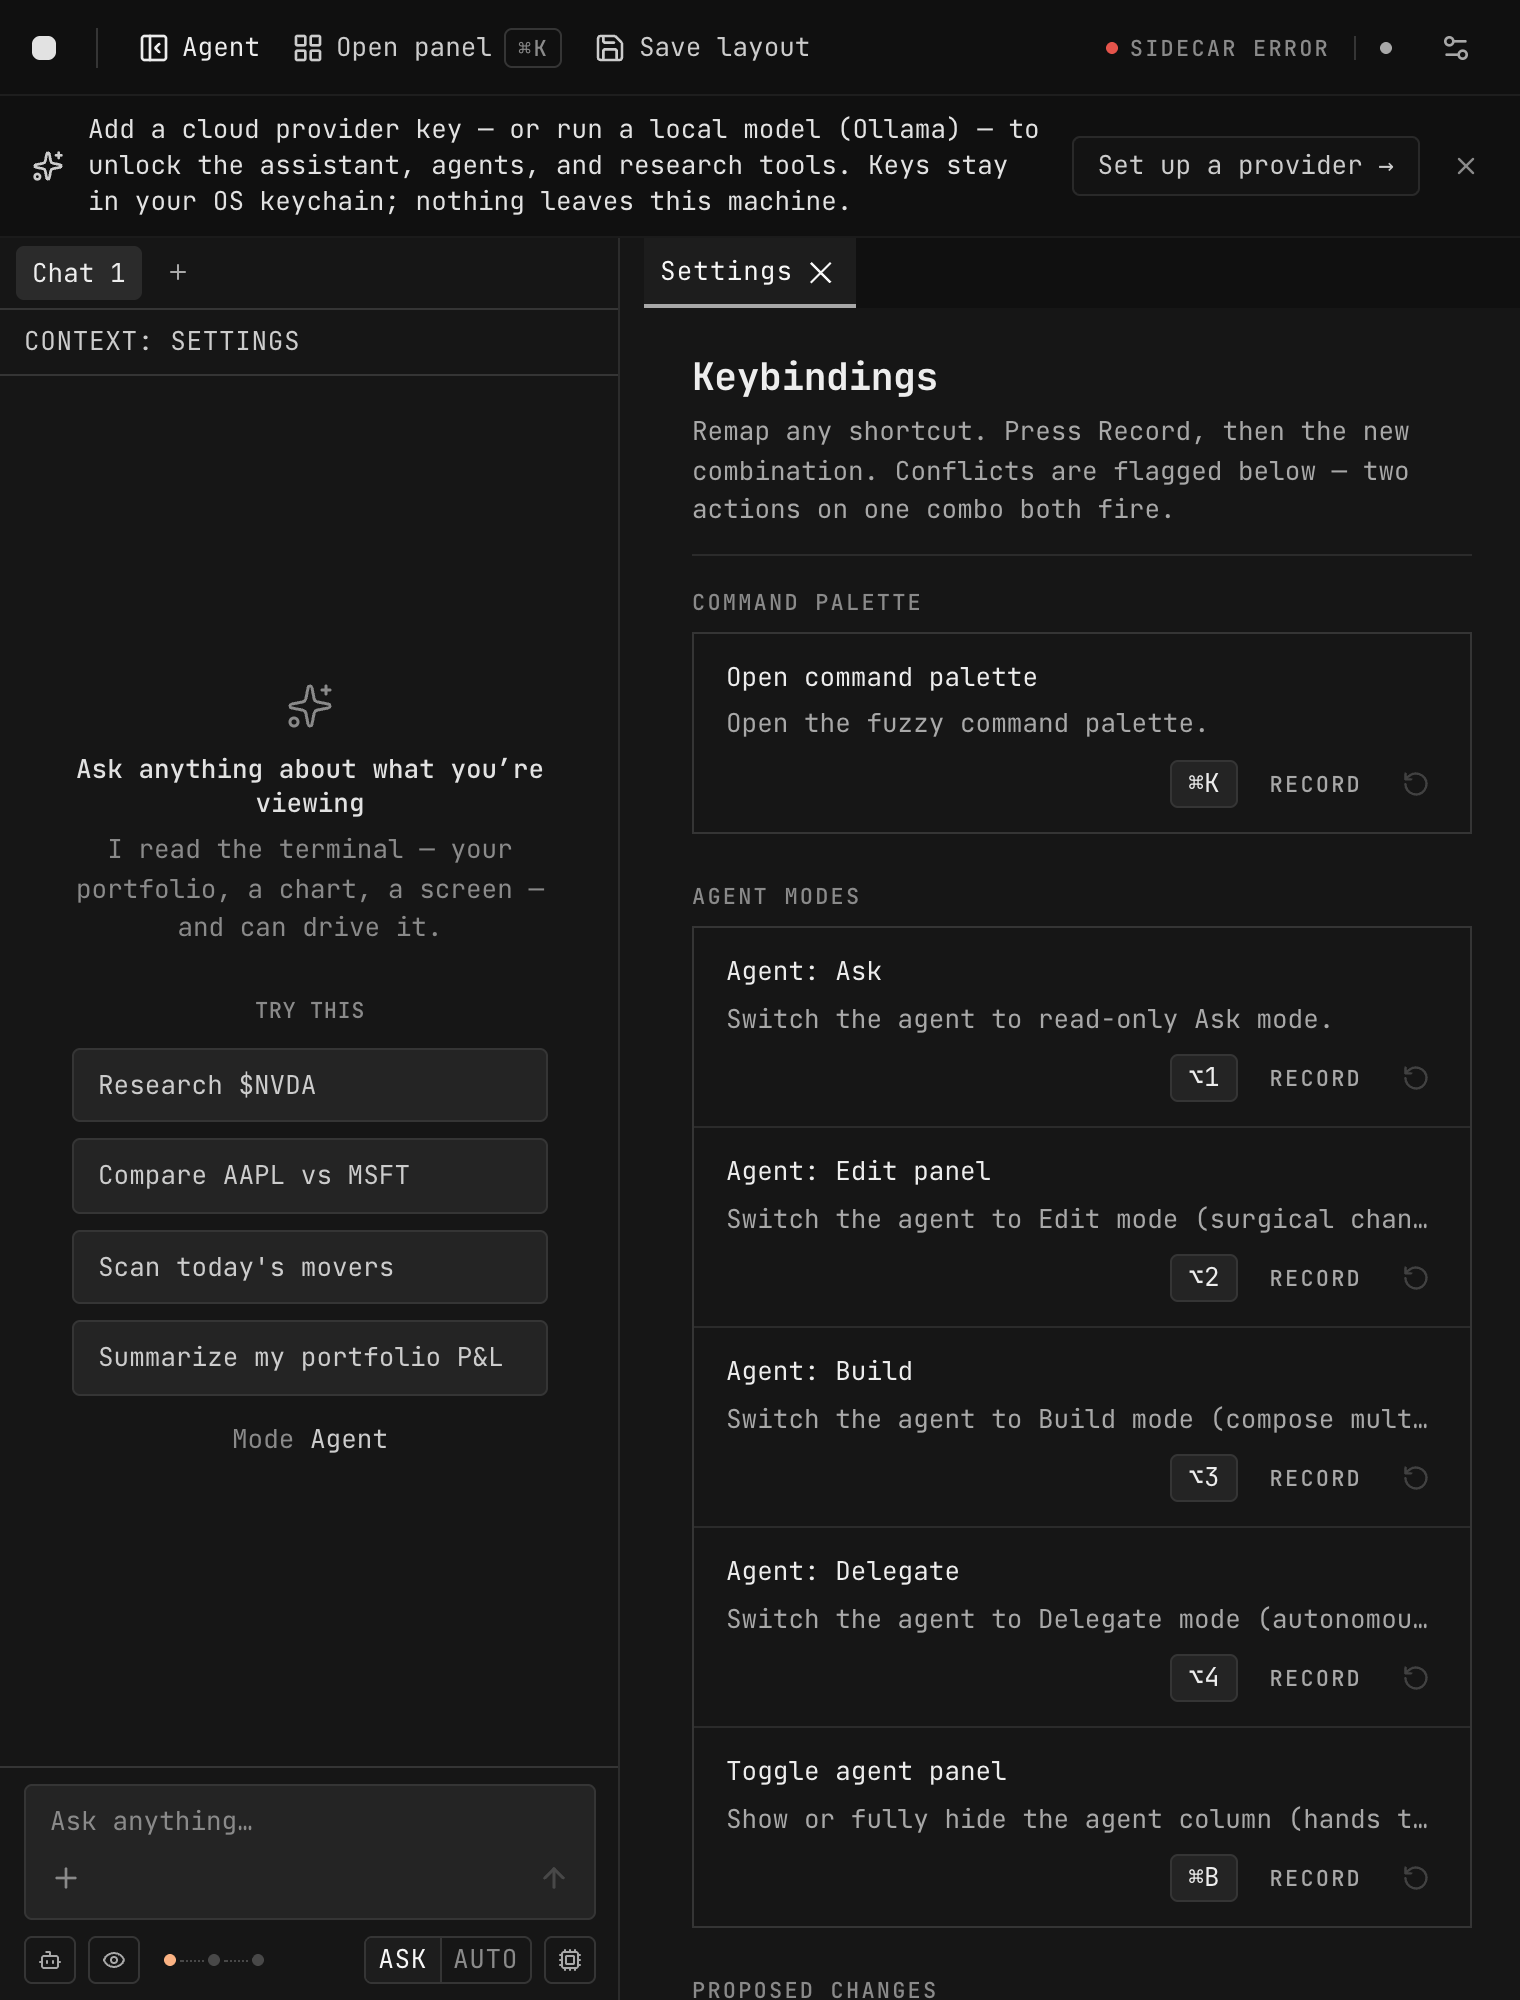
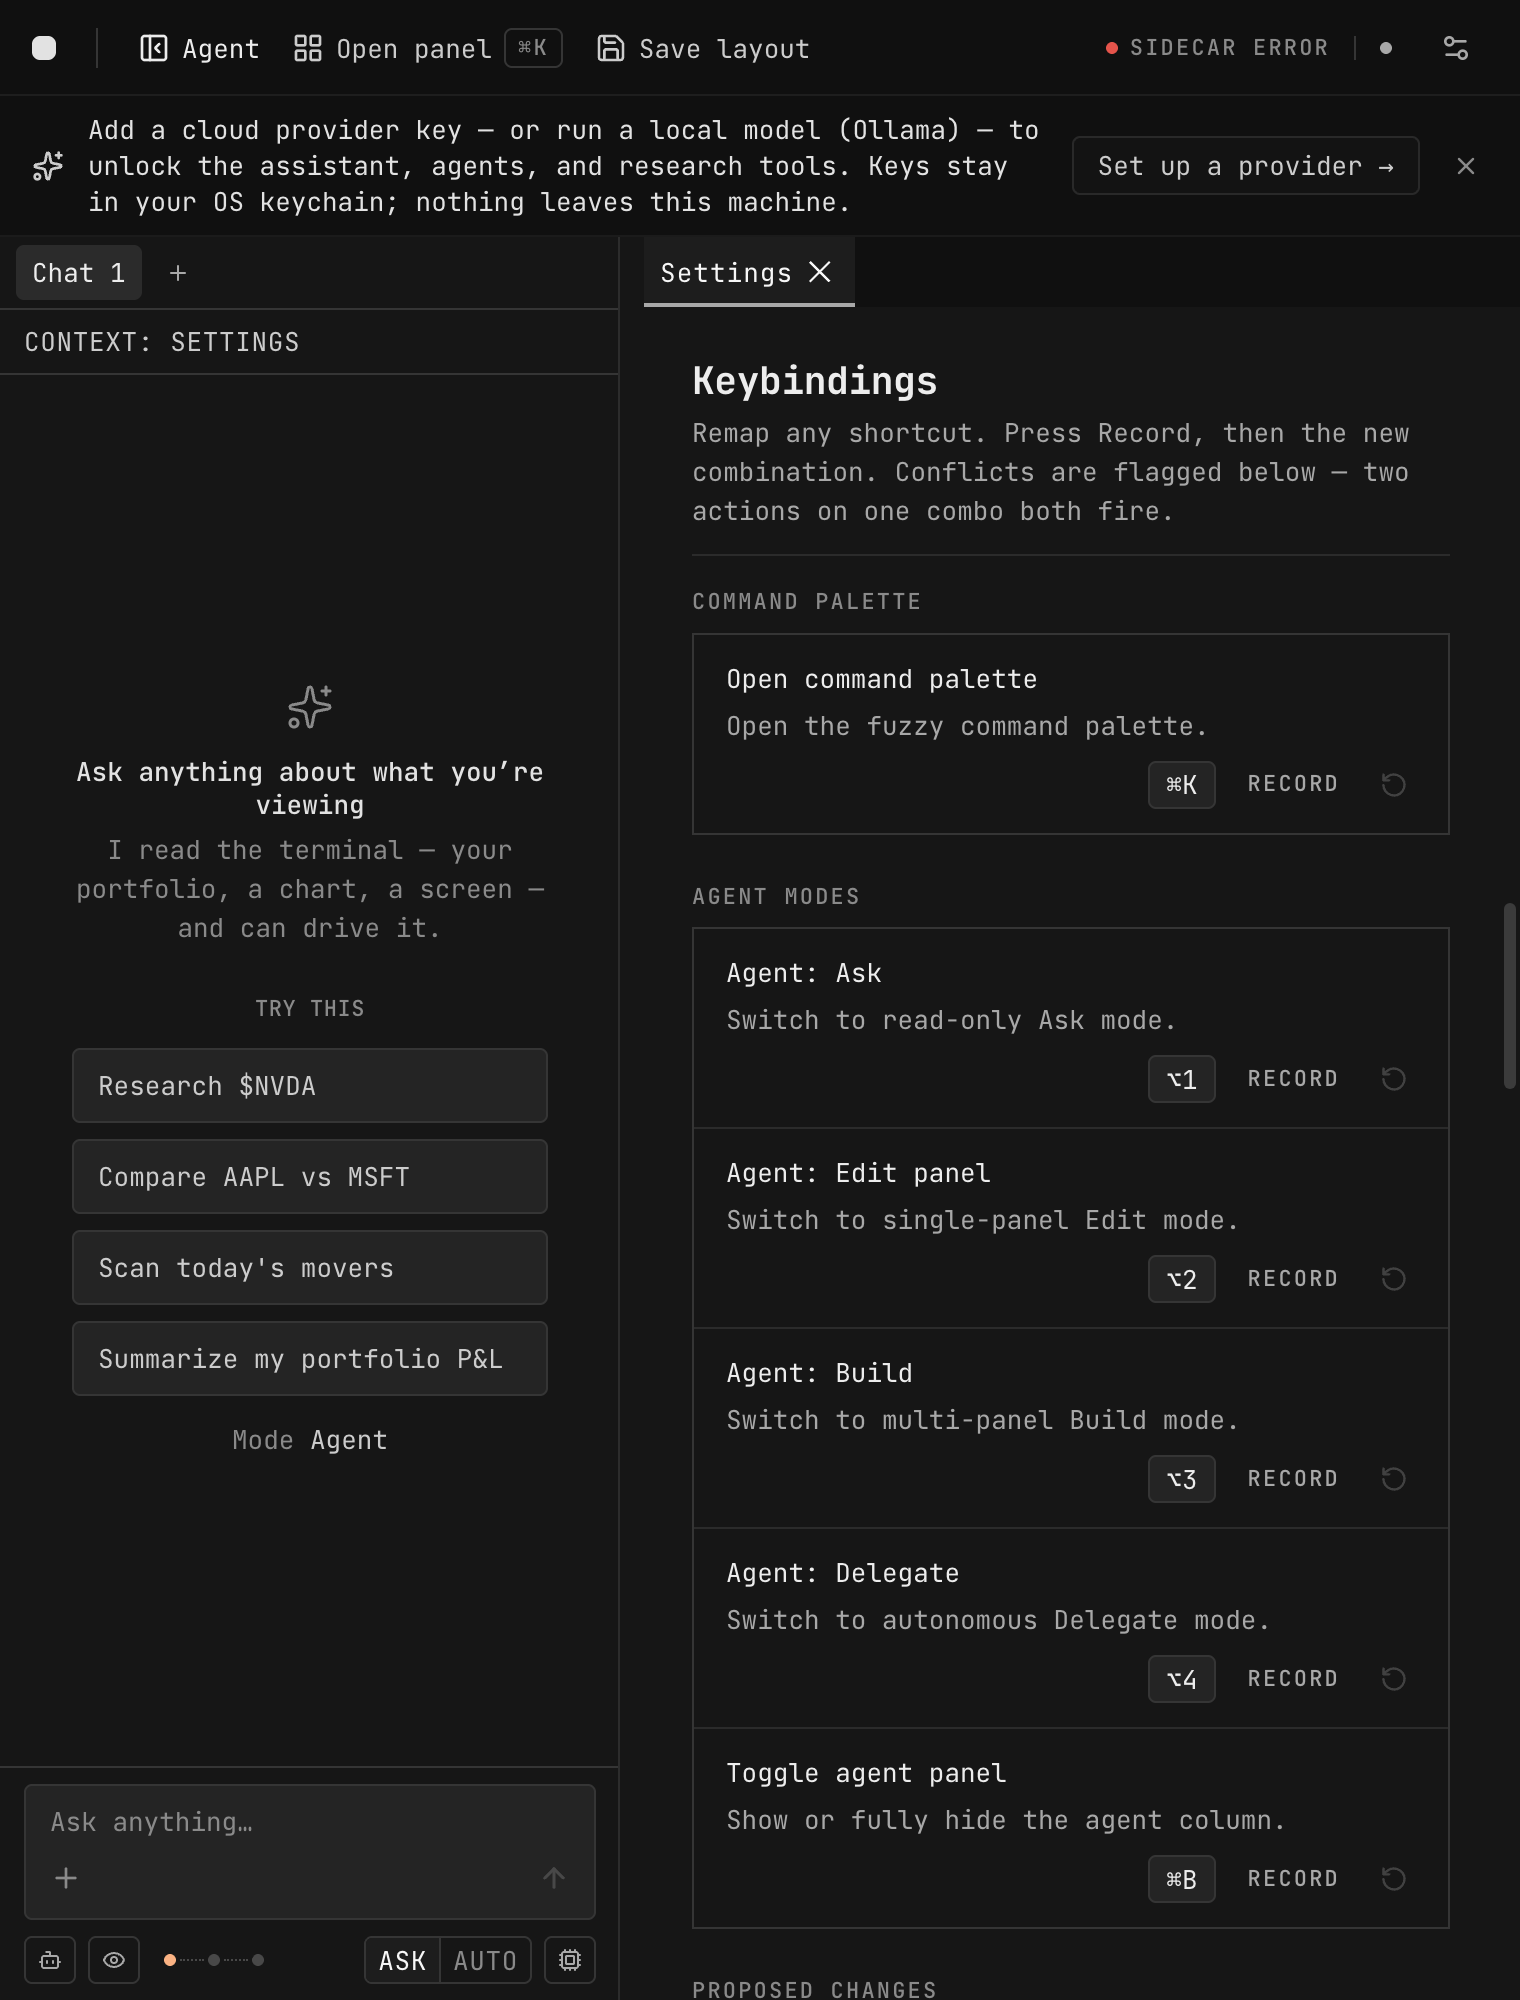
fix(settings): uniform keybindings row ladder — aligned control column at 1280
Review blocker: at the default 1280 width the keybindings card mixed row
shapes — long descriptions (max-content flex base, no flex-1) wrapped the
kbd/Record/reset cluster onto a second line while short rows kept it inline,
and the description's truncate was dead code defeated by its own layout.

Fix, uniform per card so shapes never mix at ANY width:
- Card is a @container; the label column is flex-1 (basis-0 — copy never
  decides the wrap point; cluster inline on one aligned column >=576px card
  width) and @max-[576px]:basis-full (ALL rows stack the cluster under the
  label as a unit below it). truncate is the genuine last resort.
- Designed short descriptions for the four over-budget actions (defaults
  now <=43 chars — zero truncation in the stacked min-width state too; the
  old copy truncated mid-word in the previous min capture).
- Pins: label column flex-1/min-w-0 across every row (SettingsPanel.test),
  copy budget desc+combo <=56 inline / desc <=43 stacked (keybindings.test).
- Captures regenerated with a per-row rect/scrollWidth audit: 1280 15/15
  inline zero-truncation, 760 (min, agent column) 15/15 uniformly stacked
  zero-truncation, new 460-narrow 15/15 stacked zero-truncation.
- Report: fix-round section; corrected the non-reproducing '820 (short)'
  nav-ladder claim (within scrollbar-width of the 440px gate; degrades
  safely either way).

diff --git a/src/components/SettingsPanel.tsx b/src/components/SettingsPanel.tsx
@@ -1438,7 +1438,9 @@ function KeybindingsSection() {
           return (
             <div key={category}>
               <GroupLabel label={label} />
-              <Card>
+              {/* @container: the card is the query container so the row ladder
+                  below keys off the PANEL's width, not the window's. */}
+              <Card className="@container">
                 {group.map(({ actionId, def, combo }) => {
                   const isRecording = recording === actionId;
                   const isOverridden = actionId in overrides;
@@ -1447,13 +1449,20 @@ function KeybindingsSection() {
                     <div
                       key={actionId}
                       className={cn(
-                        // Collapse order (R8 §3.4): the kbd/record cluster
-                        // wraps below the label as a unit at narrow widths.
+                        // Collapse ladder (R8 §3.4), uniform per CARD so row
+                        // shapes never mix: above 576px card width the label
+                        // column is flex-1 basis-0 — its copy never decides
+                        // the wrap point, every row keeps its kbd/record
+                        // cluster inline on one aligned column (D2). Below
+                        // 576px ALL rows stack: the label takes basis-full and
+                        // the cluster wraps under it as a unit (ml-auto keeps
+                        // it right-aligned). The description's truncate is the
+                        // genuine last resort at sub-stack starvation.
                         "flex min-h-8 flex-wrap items-center justify-between gap-x-4 gap-y-2 px-4 py-3",
                         conflicted && "border-warning/50 border-l-2",
                       )}
                     >
-                      <div className="flex min-w-0 flex-col">
+                      <div className="flex min-w-0 flex-1 flex-col @max-[576px]:basis-full">
                         <span className="text-charcoal-100 text-body">{def.label}</span>
                         <span className="text-charcoal-400 text-caption mt-1 truncate">
                           {def.description}

diff --git a/src/store/keybindings.test.ts b/src/store/keybindings.test.ts
@@ -1,6 +1,7 @@
 import { afterEach, beforeEach, describe, expect, it, vi } from "vitest";
 
 import {
+  DEFAULT_KEYBINDINGS,
   formatBinding,
   matchesEvent,
   normalizeBinding,
@@ -122,6 +123,23 @@ describe("formatBinding", () => {
   it("is SSR-safe (no navigator → treats as non-mac)", () => {
     vi.stubGlobal("navigator", undefined);
     expect(formatBinding("mod+k")).toBe("Ctrl+K");
+  });
+});
+
+describe("DEFAULT_KEYBINDINGS copy budget", () => {
+  it("keeps every default description short enough for the settings rows at the gated widths", () => {
+    // Settings keybinding row geometry (R9 gate 9: zero truncated text).
+    // Inline state (card ≥ 576px; 1280 default = ~590px inner row): ~128px of
+    // fixed cluster chrome (Record + reset + gaps + kbd padding) leaves ~58
+    // mono-caption chars shared by the description and the formatted combo.
+    // Stacked state (catalogued min capture, ~345px inner row): the
+    // description gets the full row ≈ 44 mono-caption chars on its own.
+    vi.stubGlobal("navigator", { platform: "Win32", userAgent: "Windows NT" });
+    for (const [actionId, def] of Object.entries(DEFAULT_KEYBINDINGS)) {
+      const combined = def.description.length + formatBinding(def.keys).length;
+      expect(combined, `${actionId}: "${def.description}"`).toBeLessThanOrEqual(56);
+      expect(def.description.length, `${actionId}: "${def.description}"`).toBeLessThanOrEqual(43);
+    }
   });
 });
 

diff --git a/src/store/keybindings.ts b/src/store/keybindings.ts
@@ -65,31 +65,31 @@ const SHELL_DEFAULTS: Record<string, KeybindingDef> = {
   "agent.mode.ask": {
     keys: "alt+1",
     label: "Agent: Ask",
-    description: "Switch the agent to read-only Ask mode.",
+    description: "Switch to read-only Ask mode.",
     category: "agent",
   },
   "agent.mode.edit": {
     keys: "alt+2",
     label: "Agent: Edit panel",
-    description: "Switch the agent to Edit mode (surgical change to the focused panel).",
+    description: "Switch to single-panel Edit mode.",
     category: "agent",
   },
   "agent.mode.build": {
     keys: "alt+3",
     label: "Agent: Build",
-    description: "Switch the agent to Build mode (compose multiple panels).",
+    description: "Switch to multi-panel Build mode.",
     category: "agent",
   },
   "agent.mode.delegate": {
     keys: "alt+4",
     label: "Agent: Delegate",
-    description: "Switch the agent to Delegate mode (autonomous background task).",
+    description: "Switch to autonomous Delegate mode.",
     category: "agent",
   },
   "agent.toggle": {
     keys: "mod+b",
     label: "Toggle agent panel",
-    description: "Show or fully hide the agent column (hands the full cockpit back).",
+    description: "Show or fully hide the agent column.",
     category: "agent",
   },
   "changes.acceptAll": {

diff --git a/src/components/SettingsPanel.test.tsx b/src/components/SettingsPanel.test.tsx
@@ -134,6 +134,21 @@ describe("SettingsPanel", () => {
     expect(binding.textContent).toMatch(/K$/);
   });
 
+  it("keeps every keybinding row's label column flex-1 so the cluster never wraps on copy length (D2)", () => {
+    render(<SettingsPanel />);
+    // Row shape: kbd → cluster div → row div; the label column is the row's
+    // first child. flex-1 (basis-0) means description width never decides the
+    // wrap point — every row keeps its kbd/Record/reset cluster inline on one
+    // aligned column at default width, with truncate as the live last resort.
+    const kbds = screen.getAllByLabelText(/ binding$/);
+    expect(kbds.length).toBeGreaterThan(0);
+    for (const kbd of kbds) {
+      const labelCol = kbd.parentElement?.parentElement?.firstElementChild;
+      expect(labelCol?.className).toContain("flex-1");
+      expect(labelCol?.className).toContain("min-w-0");
+    }
+  });
+
   it("recording a key remaps the binding via setBinding", () => {
     render(<SettingsPanel />);
 

diff --git a/docs/redesign/R9_TRACK_SETTINGS_REPORT.md b/docs/redesign/R9_TRACK_SETTINGS_REPORT.md
@@ -41,9 +41,13 @@ selection):
 - Jump-nav collapse ladder: full → designed short labels (Providers / Research /
   Region / Keys / Advanced) → one "Sections ⋯" overflow menu. Gates re-pinned to
   MEASURED row widths (578px full / 432px short in uppercase JetBrains Mono
-  micro); verified live at 1280/980 (full), 900/820 (short), 760 (overflow) —
+  micro); verified live at 1280/980 (full), 900 (short), 760 (overflow) —
   zero clip/wrap at every step (the first estimate, 440px, clipped at 530 — the
-  capture round caught it).
+  capture round caught it). An 820px window sits within scrollbar-width of the
+  440px short gate and renders short OR overflow depending on the rig — both
+  steps fit, neither clips, so the ladder degrades safely either way (fix-round
+  correction: the original "820 (short)" claim did not reproduce on the
+  reviewer's rig).
 - Provider rows on one designed slot grid (name+status flex, w-16 default slot,
   w-28 key slot, w-8 remove slot); SET DEFAULT is now the short form "Default"
   (button) / check+"Default" (active state) — never wraps, one column.
@@ -55,7 +59,10 @@ selection):
   color). One icon step (`ICON_14`, the law's 14px) with a single `tokens-ok`
   justification line; partition audit = zero violations.
 - Swept all five sections at 1280 + minimum panel width; the India region row
-  fits; keybinding rows wrap their kbd/record cluster below the label as a unit.
+  fits. Keybinding rows ride a uniform per-CARD collapse ladder (fix round, see
+  below): label column `flex-1` keeps every row's kbd/record cluster inline on
+  one aligned column while the card is ≥576px; below that ALL rows stack the
+  cluster under the label as a unit — row shapes never mix at any width.
 
 ### D3 — appearance knobs: KILLED (V6)
 
@@ -115,3 +122,46 @@ verdicts (full table appended to `verification/R9_DEFECT_CATALOGUE.md`):
    `config/default-layout.ts`), per the works-perfectly-or-dies rule.
 5. Dev-rig note: Vite under `.claude/worktrees/` does not hot-reload (chokidar
    ignores dot-directories) — restart the server to pick up edits.
+
+## Fix round (adversarial review blocker)
+
+**Blocker:** at 1280 (Settings solo) the keybindings card mixed row shapes —
+rows with long descriptions wrapped their kbd/Record/reset cluster onto a
+second line while short rows kept it inline-right, breaking D2's row-to-row
+control-column alignment. Mechanism: the row was `flex-wrap` and the label div
+had no `flex-1`, so its flex base size was the description's max-content width
+(~525px for the old 70-char Edit-panel copy) and the row wrapped before the
+description's own `truncate` could ever engage.
+
+**Fix (both halves of the reviewer's prescription, done uniformly per card):**
+
+1. `SettingsPanel.tsx` — the keybindings `Card` is now a `@container`; the
+   label column is `flex-1` (basis-0, so its copy never decides the wrap
+   point) with `@max-[576px]:basis-full` (below 576px card width ALL rows
+   stack the cluster under the label as a unit, ml-auto right-aligned). Row
+   shapes are uniform at every width; `truncate` is the genuine last resort
+   at sub-stack starvation. Container-query variant follows the
+   `brief-blocks.tsx` precedent; audit script stays clean.
+2. `store/keybindings.ts` — designed short descriptions for the four
+   over-budget actions (all defaults now ≤43 chars, fitting the stacked
+   min-width row with zero truncation; the old copy truncated mid-word in the
+   previous min capture): "Switch to read-only Ask mode." / "Switch to
+   single-panel Edit mode." / "Switch to multi-panel Build mode." / "Switch to
+   autonomous Delegate mode." / "Show or fully hide the agent column."
+
+**Pins:** `SettingsPanel.test.tsx` asserts every keybinding row's label column
+is `flex-1 min-w-0`; `keybindings.test.ts` pins the copy budget (description +
+non-mac formatted combo ≤56 chars for the inline state, description alone ≤43
+for the stacked state).
+
+**Evidence (headless Chrome CDP, Settings solo'd by closing the other tabs,
+per-row `getBoundingClientRect` + `scrollWidth` audit):**
+
+- 1280 (card 622px): 15/15 rows inline, clusters on one right column, zero
+  truncation → `1280-keybindings.png` (REPLACES the defective capture the
+  reviewer cited).
+- 760 with agent column (card 377px): 15/15 rows uniformly stacked, zero
+  truncation → `min-keybindings.png` (the previous capture truncated
+  mid-word: "surgical chan…").
+- 460, agent column hidden (card 399px): 15/15 uniformly stacked, zero
+  truncation → `460-narrow-keybindings.png` (new).
